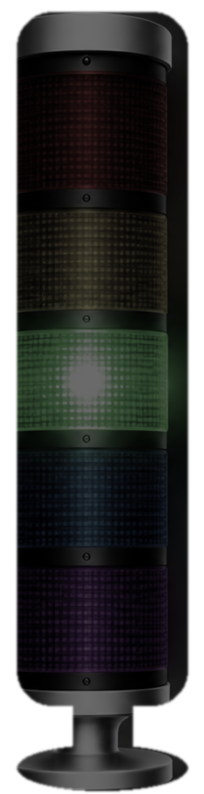
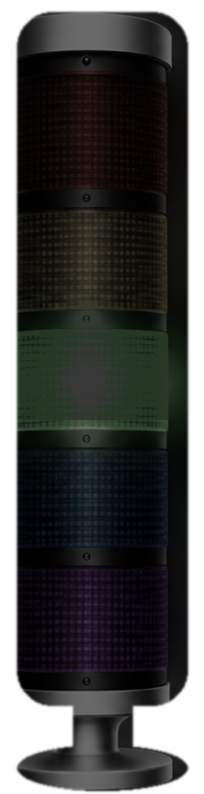
B7 FI Command Center V12.0.31

Changed region(s): [[0.2059, 0.3929, 0.6471, 0.5441], [0.7941, 0.4534, 0.8235, 0.5139]]

diff --git a/css/v12-layout-repair-v12.0.31.css b/css/v12-layout-repair-v12.0.31.css
@@ -1,0 +1,39 @@
+/* V12.0.31: scoped three-column Universal Tool Card geometry. Keep the photo/tower inside column one. */
+html body:not(.presentation-mode) #app section.c11-tool-card > div.c11-card-grid.b1226-three-column,
+html body.presentation-mode #app section.c11-tool-card > div.c11-card-grid.b1226-three-column {
+  display:grid!important;
+  grid-template-columns:repeat(3,minmax(0,1fr))!important;
+  grid-template-rows:auto!important;
+  grid-auto-flow:row!important;
+  gap:8px!important;
+  width:100%!important;
+  min-width:0!important;
+  max-width:100%!important;
+  align-items:stretch!important;
+}
+html body #app section.c11-tool-card > div.c11-card-grid.b1226-three-column > section.c11-column {
+  display:flex!important;
+  flex-direction:column!important;
+  grid-row:1!important;
+  grid-column:auto!important;
+  width:100%!important;
+  min-width:0!important;
+  max-width:100%!important;
+  align-self:stretch!important;
+  height:auto!important;
+}
+html body #app section.c11-tool-card > div.c11-card-grid.b1226-three-column > section.c11-identity-column{grid-column:1!important}
+html body #app section.c11-tool-card > div.c11-card-grid.b1226-three-column > section.c11-status-column{grid-column:2!important}
+html body #app section.c11-tool-card > div.c11-card-grid.b1226-three-column > section.c11-progress-column{grid-column:3!important}
+html body #app section.c11-tool-card > div.c11-card-grid.b1226-three-column .c11-photo.b1226-photo{width:100%!important;max-width:100%!important;box-sizing:border-box!important;flex-shrink:0!important}
+html body #app section.c11-tool-card .b1226-photo-top,
+html body #app section.c11-tool-card .b1226-photo-main{min-width:0!important;max-width:100%!important}
+html body #app section.c11-tool-card .b1226-photo-heading{overflow:hidden!important;align-items:center!important}
+html body #app section.c11-tool-card .b1226-photo-heading span,
+html body #app section.c11-tool-card .b1226-photo-heading strong{display:flex!important;align-items:center!important;justify-content:center!important;min-width:0!important;overflow:hidden!important;text-overflow:ellipsis!important}
+html body #app section.c11-tool-card .b1229-tower-image{object-fit:contain!important}
+/* Only stack the three columns on truly narrow viewports. */
+@media(max-width:760px){
+ html body:not(.presentation-mode) #app section.c11-tool-card > div.c11-card-grid.b1226-three-column{grid-template-columns:minmax(0,1fr)!important}
+ html body:not(.presentation-mode) #app section.c11-tool-card > div.c11-card-grid.b1226-three-column > section.c11-column{grid-column:1!important;grid-row:auto!important}
+}

diff --git a/index.html b/index.html
@@ -1,7 +1,7 @@
 <!doctype html>
 <html lang="en"><head>
 <meta charset="utf-8"><meta name="viewport" content="width=device-width,initial-scale=1"><meta http-equiv="Cache-Control" content="no-cache, no-store, must-revalidate"><meta http-equiv="Pragma" content="no-cache"><meta http-equiv="Expires" content="0">
-<title>B7 FI Command Center V12.0.30</title>
+<title>B7 FI Command Center V12.0.31</title>
 <link rel="icon" href="Command-Center.ico?v=7.6.35" sizes="any">
 <link rel="shortcut icon" href="Command-Center.ico?v=7.6.35">
 
@@ -53,11 +53,12 @@
 <link rel="stylesheet" href="css/v12-visual-v12.0.29.css">
 <link rel="stylesheet" href="css/v12-tower-images-v12.0.29.css">
 <link rel="stylesheet" href="css/v12-simplified-tower-v12.0.30.css">
+<link rel="stylesheet" href="css/v12-layout-repair-v12.0.31.css?build=120031">
 </head><body>
 <div class="app-frame">
   <div id="stickyShell" class="sticky-shell">
     <header class="prototype-header">
-      <section class="prototype-header-left">B7 FI COMMAND CENTER — V12.0.30</section>
+      <section class="prototype-header-left">B7 FI COMMAND CENTER — V12.0.31</section>
       <section class="prototype-header-center" id="headerModeCenter"><div class="prototype-kla-box kla-presence-box"><div class="kla-user-side kla-user-left" id="klaUsersLeft"></div><div class="kla-connection-core" id="klaConnectionCore"><img src="assets/kla-plus-official.png" alt="KLA+"><div class="kla-connection-copy"><b id="headerModeLabel">LOCAL MODE</b><small id="headerConnectionLabel">LOCAL DATA</small></div></div><div class="kla-user-side kla-user-right" id="klaUsersRight"></div></div></section>
       <section class="prototype-header-right" id="pageTitle">OPERATIONS CENTER — CY26Q3</section>
     </header>
@@ -78,7 +79,7 @@
 <script src="js/v11.17.2-global-layout.js?build=111808"></script>
 
 <script src="js/b7-build-diagnostics-v11.17.51.js?build=111808"></script>
-<script>/* V12.0.30: detach modal from transformed or sticky ancestors. */
+<script>/* V12.0.31: detach modal from transformed or sticky ancestors. */
 (function(){function relocate(){var modal=document.getElementById('modal');if(modal&&modal.parentElement!==document.body){document.body.appendChild(modal);}}if(document.readyState==='loading')document.addEventListener('DOMContentLoaded',relocate);else relocate();})();
 </script>
 <script src="js/b7-responsive-navigation-v11.18.06.js?build=111808"></script>
